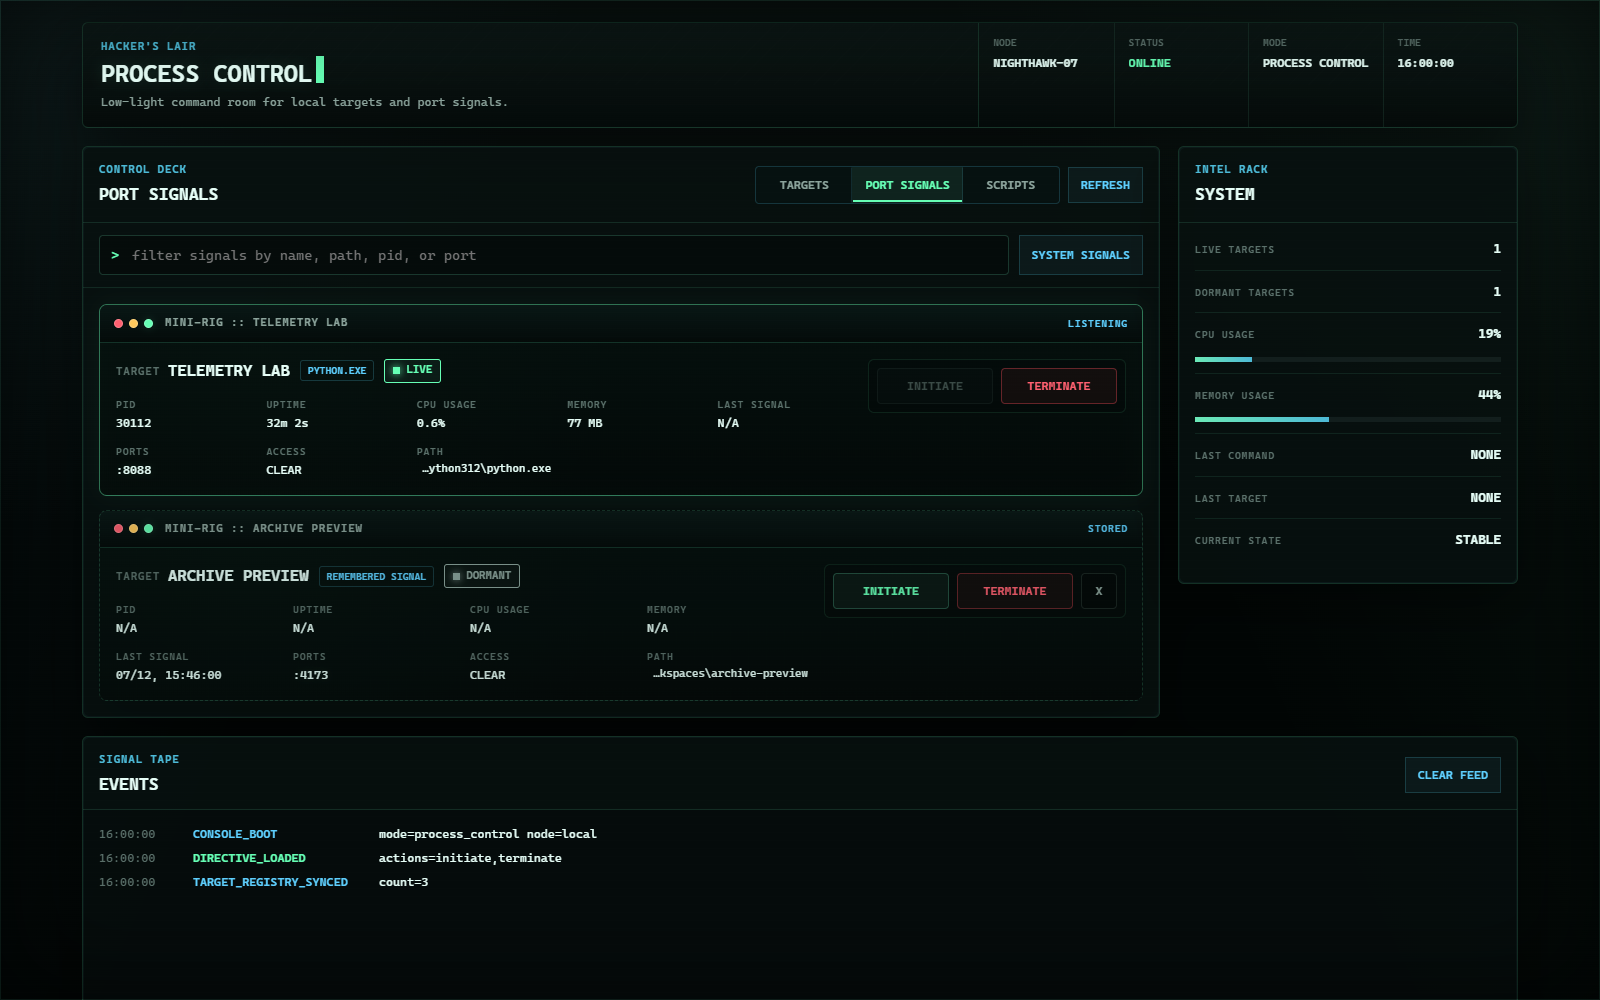
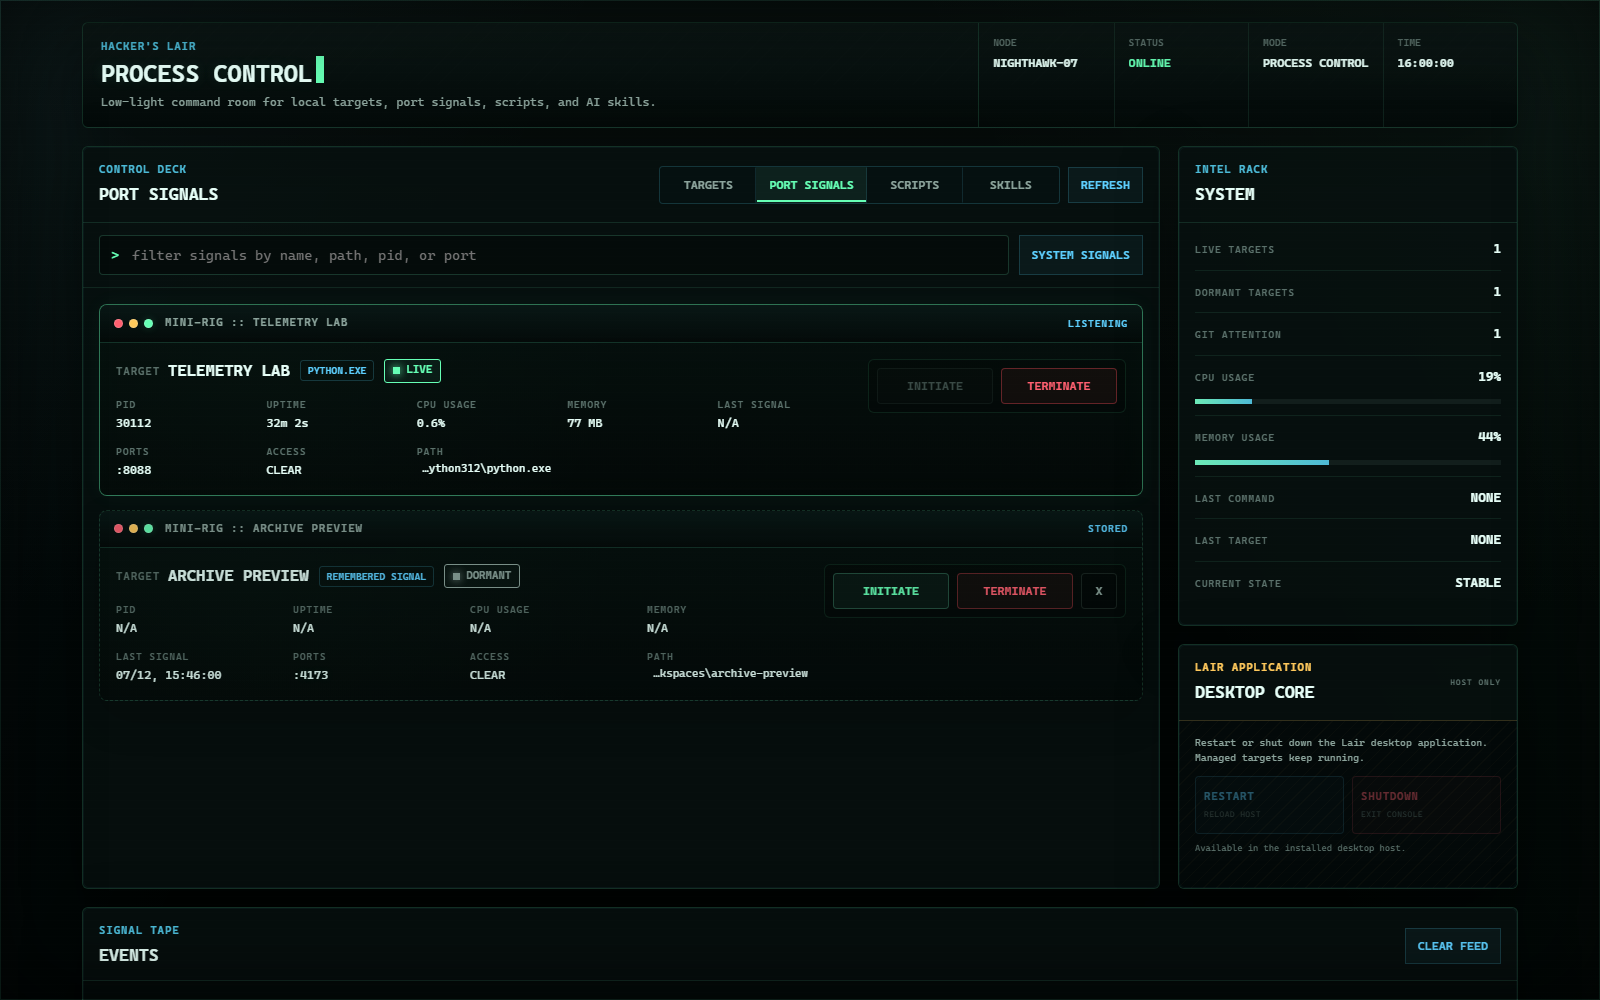
docs: show git attention and first-run setup

diff --git a/scripts/capture-readme-screenshots.js b/scripts/capture-readme-screenshots.js
@@ -13,10 +13,38 @@ const component = (name, role, port, running, pid) => ({
   path: `C:\\Workspaces\\${name}`, memKB: running ? 186240 : 0, cpuPercent: running ? 2.4 : null,
   uptimeSeconds: running ? 8421 : null, lastActionAt: now - 420000, livePorts: running ? [port] : [],
 });
+const gitAttention = (root, branch, overrides = {}) => {
+  const repository = {
+    root,
+    branch,
+    detached: false,
+    upstream: `origin/${branch}`,
+    ahead: 0,
+    behind: 0,
+    dirty: false,
+    changedPaths: 0,
+    ...overrides,
+  };
+  const dirtyRepositories = repository.dirty ? 1 : 0;
+  const withoutUpstream = repository.upstream ? 0 : 1;
+  return {
+    repositories: [repository],
+    summary: {
+      level: dirtyRepositories || repository.ahead || repository.behind || withoutUpstream ? 'attention' : 'clean',
+      dirtyRepositories,
+      changedPaths: repository.changedPaths,
+      ahead: repository.ahead,
+      behind: repository.behind,
+      withoutUpstream,
+      protectedBranchDirty: repository.dirty && ['main', 'master'].includes(branch),
+      detached: repository.detached,
+    },
+  };
+};
 const projects = [
-  { name: 'nightwatch-relay', type: 'Vite + Node API', gitBranches: ['feature/relay-observability'], components: [component('relay-ui', 'frontend', 5173, true, 18420), component('relay-api', 'backend', 4100, true, 22108)], running: true, partial: false, errored: false, starting: false, pids: [18420, 22108], memKB: 372480, cpuPercent: 4.8, uptimeSeconds: 8421, lastActionAt: now - 420000 },
-  { name: 'atlas-worker', type: 'Python task runner', gitBranches: ['main'], components: [component('atlas-worker', 'headless', null, true, 27144)], running: true, partial: false, errored: false, starting: false, pids: [27144], memKB: 92160, cpuPercent: 1.1, uptimeSeconds: 3644, lastActionAt: now - 910000 },
-  { name: 'static-forge', type: 'Next.js workspace', gitBranches: ['release/next'], components: [component('static-forge', 'fullstack', 3000, false)], running: false, partial: false, errored: false, starting: false, pids: [], memKB: 0, cpuPercent: null, uptimeSeconds: null, lastActionAt: now - 7200000 },
+  { name: 'nightwatch-relay', type: 'Vite + Node API', gitBranches: ['feature/relay-observability'], gitAttention: gitAttention('C:\\Workspaces\\nightwatch-relay', 'feature/relay-observability', { dirty: true, changedPaths: 2, ahead: 3 }), components: [component('relay-ui', 'frontend', 5173, true, 18420), component('relay-api', 'backend', 4100, true, 22108)], running: true, partial: false, errored: false, starting: false, pids: [18420, 22108], memKB: 372480, cpuPercent: 4.8, uptimeSeconds: 8421, lastActionAt: now - 420000 },
+  { name: 'atlas-worker', type: 'Python task runner', gitBranches: ['main'], gitAttention: gitAttention('C:\\Workspaces\\atlas-worker', 'main'), components: [component('atlas-worker', 'headless', null, true, 27144)], running: true, partial: false, errored: false, starting: false, pids: [27144], memKB: 92160, cpuPercent: 1.1, uptimeSeconds: 3644, lastActionAt: now - 910000 },
+  { name: 'static-forge', type: 'Next.js workspace', gitBranches: ['release/next'], gitAttention: gitAttention('C:\\Workspaces\\static-forge', 'release/next'), components: [component('static-forge', 'fullstack', 3000, false)], running: false, partial: false, errored: false, starting: false, pids: [], memKB: 0, cpuPercent: null, uptimeSeconds: null, lastActionAt: now - 7200000 },
 ];
 const processes = [
   { pid: 18420, name: 'node.exe', label: 'Nightwatch UI', cmd: 'node vite.js', exePath: 'C:\\Program Files\\nodejs\\node.exe', cwd: 'C:\\Workspaces\\nightwatch-relay', memKB: 186240, uptimeSeconds: 8421, cpuPercent: 2.4, self: false, protected: false, system: false, ports: [{ port: 5173, addresses: ['127.0.0.1'] }] },
@@ -34,6 +62,19 @@ const fixtures = {
   '/api/projects': { projects },
   '/api/processes': { self: 9000, port: 4949, processes, stopped },
   '/api/scripts': { scripts },
+  '/api/onboarding': { configured: true, projectCount: projects.length, personalSkillCount: 3, prompts: [] },
+};
+const onboardingFixtures = {
+  '/api/projects': { projects: [] },
+  '/api/onboarding': {
+    configured: false,
+    projectCount: 0,
+    personalSkillCount: 0,
+    prompts: [
+      { id: 'complete', title: 'Configure everything', prompt: "Set up Hacker's Lair completely for this machine. Inspect before changing anything, preserve existing configuration, ask about ambiguous paths or commands, avoid secrets, validate projects.json and SKILL.md metadata, run the test suite, start the app, and verify Targets and Skills both show the new configuration." },
+      { id: 'projects', title: 'Configure targets', prompt: "Inspect my development folders read-only and configure runnable applications in C:\\Tools\\hackers-lair\\projects.json. Use absolute working directories, actual start commands and ports, and distinctive process matches. Preserve existing entries, ask before resolving ambiguity, validate the JSON, run tests, and verify every target safely." },
+    ],
+  },
 };
 
 const injection = `<style>.boot-sequence{display:none!important}*,*::before,*::after{animation:none!important;transition:none!important}</style><script>
@@ -45,9 +86,12 @@ const injection = `<style>.boot-sequence{display:none!important}*,*::before,*::a
   };
   window.requestAnimationFrame = () => 0;
   const demoFixtures = ${JSON.stringify(fixtures)};
+  const onboardingFixtures = ${JSON.stringify(onboardingFixtures)};
   window.fetch = async (input) => {
     const key = Object.keys(demoFixtures).find((route) => String(input).startsWith(route));
-    return new Response(JSON.stringify(key ? demoFixtures[key] : { error: 'Demo route unavailable' }), { status: key ? 200 : 404, headers: { 'Content-Type': 'application/json' } });
+    const onboardingPayload = location.hash === '#onboarding' ? onboardingFixtures[key] : null;
+    const payload = onboardingPayload || (key ? demoFixtures[key] : { error: 'Demo route unavailable' });
+    return new Response(JSON.stringify(payload), { status: key ? 200 : 404, headers: { 'Content-Type': 'application/json' } });
   };
   addEventListener('DOMContentLoaded', () => setTimeout(() => {
     const bootSequence = document.getElementById('bootSequence');
@@ -69,7 +113,7 @@ fs.mkdirSync(outputDir, { recursive: true });
 const edge = process.env.EDGE_PATH || path.join(process.env['ProgramFiles(x86)'] || '', 'Microsoft', 'Edge', 'Application', 'msedge.exe');
 if (!fs.existsSync(edge)) throw new Error('Microsoft Edge was not found. Set EDGE_PATH to a Chromium executable.');
 
-for (const [name, hash] of [['targets', ''], ['port-signals', '#processes'], ['scripts', '#scripts']]) {
+for (const [name, hash] of [['targets', ''], ['onboarding', '#onboarding'], ['port-signals', '#processes'], ['scripts', '#scripts']]) {
   const output = path.join(outputDir, `${name}.png`);
   fs.rmSync(output, { force: true });
   spawnSync(edge, ['--headless=new', '--disable-gpu', '--hide-scrollbars', '--window-size=1600,1000', '--virtual-time-budget=6500', `--screenshot=${output}`, `${pathToFileURL(fixturePath).href}${hash}`], { stdio: 'pipe' });

diff --git a/README.md b/README.md
@@ -30,6 +30,10 @@ window controls, and scrollbar. The control service listens only on
 
 ![Hacker's Lair Targets view showing fictional live and dormant projects](docs/screenshots/targets.png)
 
+### Agent-assisted first run
+
+![Hacker's Lair first-run view showing copyable agent configuration prompts](docs/screenshots/onboarding.png)
+
 ### Port signals
 
 ![Hacker's Lair Port Signals view showing fictional listening and remembered processes](docs/screenshots/port-signals.png)
@@ -42,7 +46,7 @@ window controls, and scrollbar. The control service listens only on
 
 | Surface | What it controls |
 |---|---|
-| **Targets** | Starts or stops every configured component of a project as one unit, while showing component status, the checked-out Git branch, and logs. |
+| **Targets** | Starts or stops every configured component of a project as one unit, while showing component status, Git attention, and logs. |
 | **Port Signals** | Shows listening localhost ports, labels known development servers, stops processes, and relaunches processes previously stopped by the console. |
 | **Scripts** | Discovers configured AutoIt scripts live and starts or stops them from the same interface. |
 | **Skills** | Live-scans the shared workspace agent skills and keeps bundled, system, and plugin defaults behind an optional filter. |
@@ -54,6 +58,16 @@ window controls, and scrollbar. The control service listens only on
 Managed project UIs are opened explicitly in **Firefox**, independent of the
 Windows default browser. Set `FIREFOX_PATH` only when Firefox is installed
 outside a standard Windows location.
+
+Git attention is read-only. Each target reports its working-tree changes,
+upstream divergence, missing upstream, detached HEAD, and dirty protected-branch
+state. Hacker's Lair does not stage, commit, reset, pull, or push repositories.
+
+When no targets or personal skills are configured, the empty view provides
+copyable prompts for a coding agent. The service inserts the current machine's
+real `projects.json` and `.agents\skills` paths, while the prompt tells the agent
+to inspect first, preserve existing files, ask about ambiguity, validate the
+result, and verify it in the running app.
 
 ## Architecture
 
@@ -250,6 +264,8 @@ skill metadata is sent to the local UI; filesystem paths are not exposed.
 | `public/index.html` | Complete Process Control interface and browser-side behavior |
 | `server.js` | Local HTTP service, process discovery, launch, stop, and log APIs |
 | `lib/skill-registry.js` | Live shared and default agent skill metadata discovery |
+| `lib/git-attention.js` | Read-only Git working-tree and upstream attention state |
+| `lib/onboarding-prompts.js` | Portable first-run prompts using live machine paths |
 | `desktop.js` | Frameless Electron window lifecycle |
 | `preload.js` | Restricted bridge for in-app window controls |
 | `projects.json` | Project and component launch configuration |
